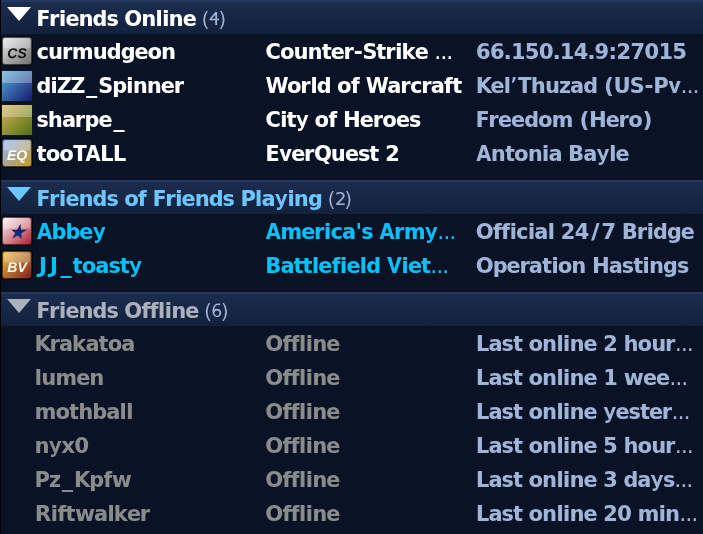
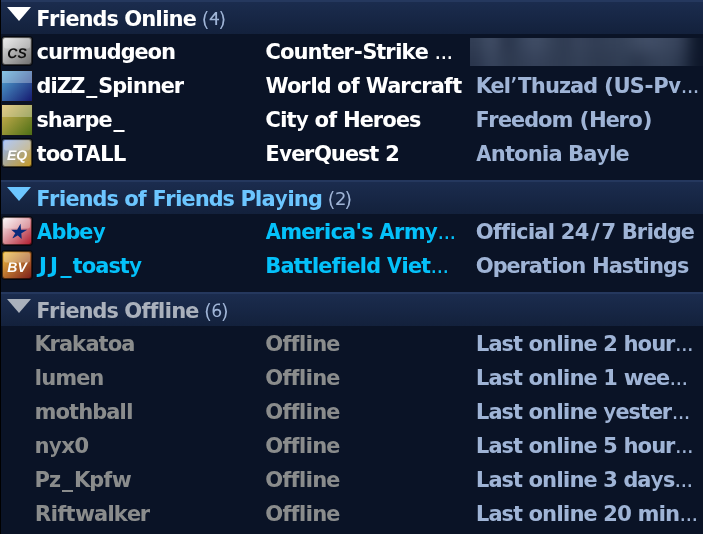
Home V4.2: Profile 7-day = tracked week (same window/tz as home), restore All time leaderboard tab, blur server IP in friends shot

Changed region(s): [[0.6572, 0.0599, 0.9858, 0.1498]]

diff --git a/apps/site-web/static/assets/app.js b/apps/site-web/static/assets/app.js
@@ -868,13 +868,21 @@ pages.home = async () => {
         : `<div class="in empty">${fl.all ? "None of your friends are online." : `No friends yet. <a href="/friends">Add someone</a>.`}</div>`, ` <a class="more" href="/friends">All friends »</a>`, "o1 fr42"); }
     // Friends leaderboard: same week as above; your row is your "Hours this week".
     let lbP = "";
-    if (wk && wk.board.some(r => !r.me)) { const b = wk.board, mi = b.findIndex(r => r.me);
-      let rows = b.slice(0, 6).map((r, i) => [r, i]); if (mi >= 6) rows = rows.slice(0, 5).concat([[b[mi], mi]]);
-      lbP = panel(`Friends leaderboard <span class="tabs"><a class="on" role="tab" aria-selected="true">This week</a></span>`, `<table class="t2"><tbody data-p="week" class="on">${rows.map(([r, i]) => `<tr class="${r.me ? "me" : ""}"><td class="rk">${i + 1}</td><td><a href="/u/${encodeURIComponent(r.handle)}">${r.me ? "You" : nm(r)}</a></td><td class="n">${h1(r.tenths)}</td></tr>`).join("")}</tbody></table>
-        <div class="per on" data-p="week">Hours this week, ${esc(wk.label)}</div>`, "", "o4 lb42"); }
+    const ba = (wk && wk.board_all) || [];
+    if (wk && (wk.board.some(r => !r.me) || ba.some(r => !r.me))) {
+      const top6 = b => { const mi = b.findIndex(r => r.me); let rows = b.slice(0, 6).map((r, i) => [r, i]); if (mi >= 6) rows = rows.slice(0, 5).concat([[b[mi], mi]]); return rows; };
+      const trs = (b, f) => top6(b).map(([r, i]) => `<tr class="${r.me ? "me" : ""}"><td class="rk">${i + 1}</td><td><a href="/u/${encodeURIComponent(r.handle)}">${r.me ? "You" : nm(r)}</a></td><td class="n">${f(r)}</td></tr>`).join("");
+      const allH = r => r.minutes > 0 && r.minutes < 60 ? "&lt;1 h" : nf.format(Math.round((r.minutes || 0) / 60)) + " h";
+      lbP = panel(`Friends leaderboard <span class="tabs"><a class="on" data-t="week" role="tab" tabindex="0" aria-selected="true">This week</a><a data-t="all" role="tab" tabindex="0" aria-selected="false">All time</a></span>`, `<table class="t2"><tbody data-p="week" class="on">${trs(wk.board, r => h1(r.tenths))}</tbody><tbody data-p="all">${trs(ba, allH)}</tbody></table>
+        <div class="per on" data-p="week">Hours this week, ${esc(wk.label)}</div><div class="per" data-p="all">Total hours, as shown on each profile</div>`, "", "o4 lb42"); }
     inner += `<div class="hub"><div>${rgP}${actP}</div><div>${frP}${lbP}</div></div>`;
     $("#h42-in").innerHTML = inner;
     const wkEl = $("#wk42"); if (wkEl) wkTips(wkEl);
+    const lb = $("#h42-in .lb42");
+    if (lb) $$(".tabs a", lb).forEach(a => { const go = e => { e.preventDefault(); const t = a.dataset.t;
+      $$(".tabs a", lb).forEach(x => { x.classList.toggle("on", x === a); x.setAttribute("aria-selected", x === a ? "true" : "false"); });
+      $$("[data-p]", lb).forEach(x => x.classList.toggle("on", x.dataset.p === t)); };
+      a.addEventListener("click", go); a.addEventListener("keydown", e => { if (e.key === "Enter" || e.key === " ") go(e); }); });
   }
   // ---- trending, how it works (signed out), news, poll + community
   const mp = h.most_played.slice(0, 4), m0 = (mp[0] && mp[0].minutes) || 1;
@@ -1088,7 +1096,7 @@ pages.profile = async () => {
   if (!handle) { location.replace(me() ? "/u/" + encodeURIComponent(me().handle) : "/login"); return; }
   document.title = handle + " · Fraglink";
   let p;
-  try { p = await api("/users/" + encodeURIComponent(handle) + "/profile?limit=" + GPAGE, { keepSession: true }); }
+  try { p = await api("/users/" + encodeURIComponent(handle) + "/profile?limit=" + GPAGE + "&tz=" + encodeURIComponent(TZ), { keepSession: true }); }
   catch (e) {
     if (e.status === 401) {
       root.innerHTML = `<div class="narrow panel"><h2>${esc(handle)}</h2><div class="body"><p>This profile is only visible to signed-in Fraglink players.</p><p><a class="btn" href="/login?next=${encodeURIComponent(location.pathname)}">Sign in</a> <a class="btn dl" href="/signup">Create an account</a></p></div></div>`;
@@ -1157,7 +1165,7 @@ pages.profile = async () => {
       <b>${isUnlisted(pres.game_id) ? "A game" : esc(pres.game_name)}</b>${pres.game_detail ? ` <span style="opacity:.8">· ${esc(pres.game_detail)}</span>` : ""}</div>${pres.session_started_at ? `<span style="opacity:.8">for ${since(pres.session_started_at)}</span>` : ""}</div>` : "";
   const sec = (title, body, right, cls, id) => `<section class="panel sx${cls ? " " + cls : ""}"${id ? ` id="${id}"` : ""}><h2><span class="tab">${title}</span>${right ? `<span class="rt">${right}</span>` : ""}</h2>${body}</section>`;
   const report = !self && token() ? `<div class="avlinks">${p.avatar && p.avatar.kind === "upload" ? `<a href="#" class="report" data-report>Report picture</a>` : ""}<a href="#" class="report flagit" data-report-profile>&#9873; Report this profile</a></div>` : "";
-  const kpi = `<div class="kpi">${p.history_visible ? `<div><b>${total > 0 && total < 60 ? "&lt;1" : nf.format(Math.round(total / 60))}</b><span>Total hours</span></div><div><b>${hrsShort(p.overall.minutes_7d)}</b><span>Past 7 days</span></div>` : ""}${self || Array.isArray(p.friends) ? `<a href="${self ? "/friends" : "#friends"}" class="kf"><b>${p.friend_count}</b><span>Friends</span></a>` : `<div><b>${p.friend_count}</b><span>Friends</span></div>`}</div>`;
+  const kpi = `<div class="kpi">${p.history_visible ? `<div><b>${total > 0 && total < 60 ? "&lt;1" : nf.format(Math.round(total / 60))}</b><span>Total hours</span></div><div${p.overall.week_label ? ` title="Tracked hours, ${esc(p.overall.week_label)}"` : ""}><b>${p.overall.tenths_7d != null ? (p.overall.tenths_7d / 10).toFixed(1) : hrsShort(p.overall.minutes_7d)}</b><span>Past 7 days</span></div>` : ""}${self || Array.isArray(p.friends) ? `<a href="${self ? "/friends" : "#friends"}" class="kf"><b>${p.friend_count}</b><span>Friends</span></a>` : `<div><b>${p.friend_count}</b><span>Friends</span></div>`}</div>`;
   const nick = p.display_name || p.handle, prevs = (p.previous_names || []).filter(n => n.toLowerCase() !== nick.toLowerCase() && n.toLowerCase() !== p.handle.toLowerCase());
   const head = `<section class="ph${bannerG ? "" : " noart"}"${bannerG ? ` style="background:${artBg(bannerG.game_id, bannerG.name)}"` : ""}><div class="inr">
       <div>${avatar(p.avatar, 184)}${report}</div>
@@ -1195,13 +1203,14 @@ pages.profile = async () => {
   } else if (!p.games || !p.games.length) {
     games = sec("Games", `<div class="body empty">No hours recorded yet.${self ? ` <a href="/download">Get the app</a> and play something.` : ""}</div>`);
   } else {
+    const w7 = x => x.tenths_7d != null ? (x.tenths_7d > 0 ? h1(x.tenths_7d) : "-") : hours(x.minutes_7d);
     const row = g => `<tr><td><span class="gico">${icon(g.listed === false && !self ? "manual:unlisted" : g.game_id, g.name)}</span>${g.listed === false && !self ? `<span class="empty">${esc(g.name)}</span>` : esc(g.name)}${g.tier && g.tier !== "tracked" && g.tier !== "imported" ? ` <span class="tier">${esc(g.tier)}</span>` : ""}</td>
-      <td class="n">${hours(g.minutes_7d)}</td><td class="n">${hours(g.total_min)}</td><td class="n hide-sm">${live && pres.game_id === g.game_id ? `<span style="color:var(--online)">Now</span>` : lastPlayed(g.last_played_at)}</td></tr>`;
+      <td class="n">${w7(g)}</td><td class="n">${hours(g.total_min)}</td><td class="n hide-sm">${live && pres.game_id === g.game_id ? `<span style="color:var(--online)">Now</span>` : lastPlayed(g.last_played_at)}</td></tr>`;
     const many = (p.games_total || p.games.length) > GPAGE;
     games = sec("Games", `
       <table class="gt" style="width:100%;border-collapse:collapse"><thead><tr>${[["name", "Game", ""], ["week", "Past 7 days", "n"], ["total", "Total", "n"], ["recent", "Last played", "n hide-sm"]].map(([k, l, c]) => `<th class="${c} srt${k === "total" ? " on" : ""}" data-gs="${k}" tabindex="0" role="button" aria-sort="${k === "total" ? "descending" : "none"}" title="Sort by ${l.toLowerCase()}">${l}<i>${k === "total" ? " ▾" : ""}</i></th>`).join("")}</tr></thead>
       <tbody data-gbody>${p.games.map(row).join("")}</tbody>
-      <tfoot><tr class="tot"><td>Overall hours</td><td class="n">${hours(p.overall.minutes_7d)}</td><td class="n">${hours(p.overall.total_min)}</td><td class="hide-sm"></td></tr></tfoot></table>
+      <tfoot><tr class="tot"><td>Overall hours</td><td class="n">${w7(p.overall)}</td><td class="n">${hours(p.overall.total_min)}</td><td class="hide-sm"></td></tr></tfoot></table>
       <div data-gpager>${many ? pagerHtml(0, GPAGE, p.games_total) : ""}</div>`);
     gamesRow = row;
   }
@@ -1281,7 +1290,7 @@ pages.profile = async () => {
     // column starts in its natural one (Game A→Z, the numbers biggest first, Last played newest).
     const st = { offset: 0, sort: "total", dir: "desc" };
     const load = async keepPos => {
-      const qs = new URLSearchParams({ show: "games", limit: GPAGE, offset: st.offset, sort: st.sort, dir: st.dir });
+      const qs = new URLSearchParams({ show: "games", limit: GPAGE, offset: st.offset, sort: st.sort, dir: st.dir, tz: TZ });
       gbody.style.opacity = .5;
       try {
         const r = await api("/users/" + encodeURIComponent(p.handle) + "/profile?" + qs, { keepSession: true });

diff --git a/apps/server/tests/home_week.rs b/apps/server/tests/home_week.rs
@@ -460,3 +460,102 @@ async fn activity_per_session_has_live_and_finished_rows_once(pool: PgPool) {
         "{v}"
     );
 }
+
+/// Profile "Past 7 days" is the same calculation as the home headline (tracked hours only,
+/// same window and timezone); lifetime totals still include imported hours. The All time
+/// leaderboard shows each person's Profile total.
+#[sqlx::test(migrator = "fraglink_server::MIGRATOR")]
+async fn profile_week_matches_home_headline(pool: PgPool) {
+    let st = state(pool.clone());
+    let app = fraglink_server::router(st.clone());
+    let a = signup(&app, "a@example.com", "alice").await;
+    let b = signup(&app, "b@example.com", "bob").await;
+    befriend(&app, &a, &b, "bob", "alice").await;
+    sqlx::query("INSERT INTO games (id, name) VALUES ('wow', 'World of Warcraft'), ('cs2', 'Counter-Strike 2'), ('quake', 'Quake')")
+        .execute(&pool)
+        .await
+        .unwrap();
+    for (h, g, s, e, secs) in [
+        ("alice", "wow", "26 hours", "25 hours", 3517),
+        ("alice", "cs2", "50 hours", "49 hours", 2000),
+        ("alice", "quake", "3 hours", "1 hours", 4321),
+        ("alice", "wow", "20 days", "19 days", 3600), // outside the week
+        ("bob", "wow", "5 hours", "4 hours", 3600),
+    ] {
+        sqlx::query(
+            "INSERT INTO sessions (id, user_id, game_id, started_at, ended_at, duration_s)
+             SELECT gen_random_uuid(), id, $2, now() - $3::interval, now() - $4::interval, $5 FROM users WHERE handle = $1",
+        )
+        .bind(h)
+        .bind(g)
+        .bind(s)
+        .bind(e)
+        .bind(secs)
+        .execute(&pool)
+        .await
+        .unwrap();
+    }
+    // imported Steam playtime: in the lifetime total, never in the week
+    sqlx::query("INSERT INTO steam_playtime(user_id, steam_appid, game_id, minutes_forever, minutes_2weeks, fetched_at) SELECT id, 730, 'cs2', 600, 300, now() FROM users WHERE handle = 'alice'")
+        .execute(&pool)
+        .await
+        .unwrap();
+    for tz in ["Australia/Sydney", "UTC", "America/Los_Angeles"] {
+        let w = api(
+            &app,
+            "GET",
+            &format!("/api/v1/home/week?tz={tz}"),
+            Some(&a),
+            None,
+        )
+        .await
+        .json();
+        assert_consistent(&w);
+        let p = api(
+            &app,
+            "GET",
+            &format!("/api/v1/users/alice/profile?tz={tz}"),
+            Some(&a),
+            None,
+        )
+        .await
+        .json();
+        let o = &p["overall"];
+        println!(
+            "{tz}: home {} s / {} t, profile {o}",
+            w["seconds"], w["tenths"]
+        );
+        assert_eq!(n(&o["tenths_7d"]), n(&w["tenths"]), "{tz}: {o} vs {w}");
+        assert_eq!(n(&o["minutes_7d"]), n(&w["minutes"]), "{tz}");
+        assert_eq!(o["week_label"], w["label"], "{tz}");
+        let games = p["games"].as_array().unwrap();
+        let gt: i64 = games.iter().map(|g| n(&g["tenths_7d"])).sum();
+        let gm: i64 = games.iter().map(|g| n(&g["minutes_7d"])).sum();
+        assert_eq!(gt, n(&o["tenths_7d"]), "{tz}: per game tenths");
+        assert_eq!(gm, n(&o["minutes_7d"]), "{tz}: per game minutes");
+        // tracked 3517+2000+4321+3600 s plus 600 imported minutes on cs2 (more than tracked)
+        assert!(n(&o["total_min"]) >= 600 + 59 + 72, "{o}");
+        assert!(n(&o["minutes_7d"]) < 600, "imports never in the week: {o}");
+        // All time: each row is that person's Profile total
+        for r in w["board_all"].as_array().unwrap() {
+            let h = r["handle"].as_str().unwrap();
+            let pp = api(
+                &app,
+                "GET",
+                &format!("/api/v1/users/{h}/profile"),
+                Some(&a),
+                None,
+            )
+            .await
+            .json();
+            assert_eq!(
+                n(&r["minutes"]),
+                n(&pp["overall"]["total_min"]),
+                "{h} all time"
+            );
+        }
+        assert_eq!(w["board_all"][0]["handle"], "alice");
+        assert_eq!(w["board_all"].as_array().unwrap().len(), 2);
+    }
+    let _ = b;
+}

diff --git a/apps/server/src/profile.rs b/apps/server/src/profile.rs
@@ -196,6 +196,7 @@ async fn profile(
     headers: HeaderMap,
     Path(handle): Path<String>,
     axum::extract::Query(pq): axum::extract::Query<crate::paging::PageQuery>,
+    axum::extract::Query(wq): axum::extract::Query<crate::home::WeekQuery>,
 ) -> ApiResult<Json<Value>> {
     let viewer = m.0.as_ref().map(|a| a.user.id);
     let games_only = pq.show.as_deref() == Some("games");
@@ -354,9 +355,42 @@ async fn profile(
     };
 
     let (mut games, mut recent) = (Vec::new(), Vec::new());
-    let (mut total_min, mut min_7d) = (0i64, 0i64);
+    let (mut total_min, mut min_7d, mut tenths_7d) = (0i64, 0i64, 0i64);
+    let mut week_label = None;
     if can_see_games {
         let rows = api::game_stats(&st, p.id).await?;
+        // "Past 7 days": tracked hours only, from crate::week (the viewer's timezone, same
+        // window and rounding as the home page), so your own profile always matches "Hours
+        // this week" there. Lifetime totals below still include imported hours.
+        let tz = crate::activity::tz_or_default(&st, wq.tz.as_deref()).await;
+        let w = crate::week::window(crate::week::parse_tz(&tz), Utc::now());
+        let (first, last) = (w.dates[0], w.dates[crate::week::DAYS - 1]);
+        week_label = Some(format!(
+            "{} – {}",
+            first.format("%a %-d %b"),
+            last.format("%a %-d %b")
+        ));
+        let wk = crate::week::load(&st, w, &[p.id], is_self.then_some(p.id))
+            .await?
+            .user(p.id);
+        let mut wg: Vec<(String, i64)> = wk
+            .games
+            .iter()
+            .filter(|(g, _)| !hidden.contains(*g))
+            .map(|(g, x)| (g.clone(), x.seconds))
+            .collect();
+        wg.sort();
+        let wsecs: i64 = wg.iter().map(|g| g.1).sum();
+        min_7d = (wsecs + 30) / 60;
+        tenths_7d = crate::week::tenths(wsecs);
+        let parts: Vec<i64> = wg.iter().map(|g| g.1).collect();
+        let gm = crate::week::apportion(min_7d, &parts);
+        let gt = crate::week::apportion(tenths_7d, &parts);
+        let week_of: std::collections::HashMap<String, (i64, i64)> = wg
+            .iter()
+            .enumerate()
+            .map(|(i, g)| (g.0.clone(), (gm[i], gt[i])))
+            .collect();
         let ids: Vec<String> = rows.iter().map(|r| r.game_id.clone()).collect();
         let named = names::public_names(&st, &ids).await?;
         let apps = crate::home::appids(&st, &ids).await?;
@@ -371,16 +405,17 @@ async fn profile(
                 continue;
             }
             total_min += g.display_min;
-            min_7d += g.minutes_7d;
+            let (g_min_7d, g_tenths_7d) = week_of.get(&g.game_id).copied().unwrap_or((0, 0));
             let listed = named.contains_key(&g.game_id);
-            if g.display_min == 0 && g.minutes_7d == 0 {
+            if g.display_min == 0 && g_min_7d == 0 {
                 continue;
             }
             games.push(json!({
                 "game_id": if listed || is_self || own.contains_key(&g.game_id) { g.game_id.clone() } else { names::UNLISTED_ID.to_string() },
                 "name": own.get(&g.game_id).cloned().unwrap_or(g.name),
                 "listed": listed,
-                "minutes_7d": g.minutes_7d,
+                "minutes_7d": g_min_7d,
+                "tenths_7d": g_tenths_7d,
                 "total_min": g.display_min,
                 "tier": g.display_tier,
                 "last_played_at": g.last_played_at,
@@ -586,7 +621,7 @@ async fn profile(
         "presence": presence,
         "games": games_page.0,
         "games_total": games_all,
-        "overall": { "total_min": total_min, "minutes_7d": min_7d },
+        "overall": { "total_min": total_min, "minutes_7d": min_7d, "tenths_7d": tenths_7d, "week_label": week_label },
         "recent": recent,
         "recent_days": RECENT_DAYS,
         "avatar": avatar,

diff --git a/apps/server/src/home.rs b/apps/server/src/home.rs
@@ -70,9 +70,9 @@ async fn home(State(st): State<AppState>, m: MaybeUser) -> ApiResult<Json<Value>
     Ok(Json(v))
 }
 
-#[derive(serde::Deserialize)]
-struct WeekQuery {
-    tz: Option<String>,
+#[derive(serde::Deserialize, Default)]
+pub struct WeekQuery {
+    pub tz: Option<String>,
 }
 
 /// Signed-in home "this week" block: headline hours, daily bars, per-game totals and the
@@ -188,6 +188,34 @@ pub async fn week_json(
             .cmp(&a["seconds"].as_i64())
             .then(a["display_name"].as_str().cmp(&b["display_name"].as_str()))
     });
+    // All time: each person's lifetime total exactly as their Profile shows it to you
+    // (tracked + imported, games they hide from others left out; your own hidden games count).
+    let all_rows: Vec<(Uuid, i64)> = sqlx::query_as(
+        "SELECT g.user_id, coalesce(sum(g.display_min), 0)::bigint FROM user_game_stats g
+         WHERE g.user_id = ANY($1)
+           AND (g.user_id = $2 OR NOT EXISTS (SELECT 1 FROM hidden_games h WHERE h.user_id = g.user_id AND h.game_id = g.game_id))
+         GROUP BY g.user_id",
+    )
+    .bind(&ids)
+    .bind(me)
+    .fetch_all(&st.db)
+    .await?;
+    let all_min: std::collections::HashMap<Uuid, i64> = all_rows.into_iter().collect();
+    let mut board_all: Vec<Value> = Vec::new();
+    for (id, handle, name) in &shown {
+        let m = all_min.get(id).copied().unwrap_or(0);
+        if *id != me && m <= 0 {
+            continue;
+        }
+        board_all
+            .push(json!({ "handle": handle, "display_name": name, "me": *id == me, "minutes": m }));
+    }
+    board_all.sort_by(|a, b| {
+        b["minutes"]
+            .as_i64()
+            .cmp(&a["minutes"].as_i64())
+            .then(a["display_name"].as_str().cmp(&b["display_name"].as_str()))
+    });
     let first = w.dates[0];
     let last = w.dates[week::DAYS - 1];
     Ok(json!({
@@ -200,6 +228,7 @@ pub async fn week_json(
         "games": games_json,
         "top_game": top,
         "board": board,
+        "board_all": board_all,
         "friends": friend_ids.len(),
     }))
 }
